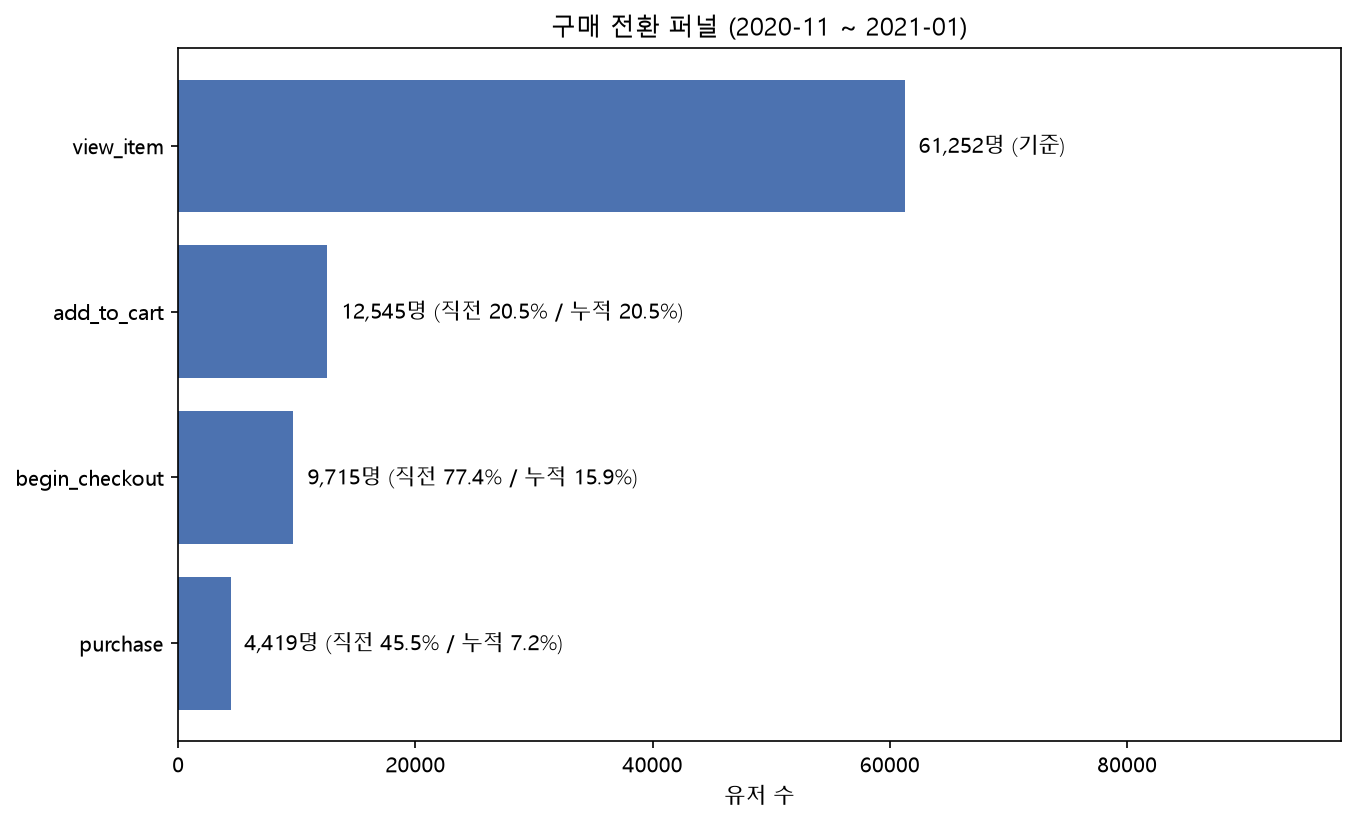
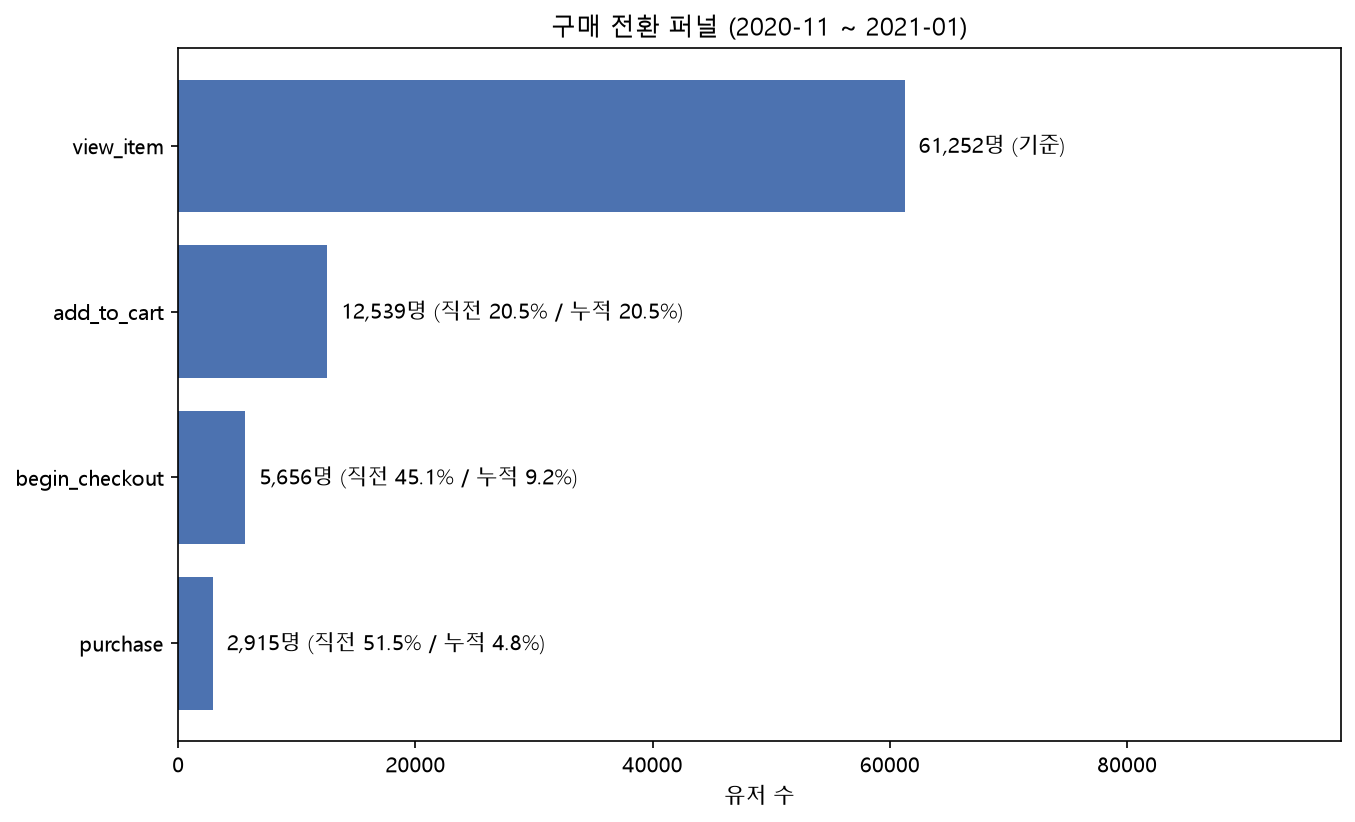
Refactor funnel analysis to intersection-based: correct 'checkout exit' narrative to 'cart→checkout' as primary leak

Changed region(s): [[0.155, 0.4866, 0.4649, 0.6691], [0.155, 0.6995, 0.403, 0.882], [0.279, 0.365, 0.31, 0.3954]]

diff --git a/src/dashboard.py b/src/dashboard.py
@@ -59,16 +59,17 @@ def render_executive_summary() -> None:
     col1, col2, col3, col4 = st.columns(4)
     col1.metric("총 방문자", "270,154")
     col2.metric("구매 유저", "4,419")
-    col3.metric("전체 구매 전환율", "1.64%")
+    col3.metric("전체 구매 전환율", "1.08%")
     col4.metric("매출 상위 20% 유저의 매출 비중", "56.7%")
 
     st.divider()
 
-    st.markdown("#### 가장 큰 매출 손실 지점은 체크아웃 이탈")
+    st.markdown("#### 가장 큰 매출 손실 지점은 장바구니 → 체크아웃 구간")
     st.markdown(
-        "상품을 장바구니에 담고 체크아웃까지 진행한 유저의 54.5%가 결제 없이 이탈합니다. "
-        "이는 업계 평균(30~40%) 대비 심각한 수준으로, 배송비 사전 노출·게스트 체크아웃 등 "
-        "결제 페이지 최적화의 임팩트가 가장 큽니다."
+        "상품을 조회하고 장바구니에 담은 유저 12,539명 중 54.9%가 체크아웃으로 넘어가지 "
+        "않습니다 (체크아웃 진입 5,656명). 체크아웃 이후 구매 완료율은 51.5%로 상대적으로 "
+        "양호해, 매출 개선 레버리지는 결제 페이지보다 **장바구니 이탈 방지(저장 알림, 재고 "
+        "긴급성 노출, 쿠폰 자동 적용 등)에 더 큽니다**."
     )
 
     st.markdown('#### 매출의 42%는 "1회 중가 구매자" 하나의 세그먼트에서 발생')
@@ -119,7 +120,7 @@ def render_funnel() -> None:
 
     st.dataframe(df, use_container_width=True)
 
-    st.info("체크아웃 → 구매 이탈률 54.5%가 가장 큰 매출 손실 지점")
+    st.info("장바구니 → 체크아웃 이탈률 54.9%가 가장 큰 매출 손실 지점 (교집합 기준 분석)")
 
 
 def render_cohort() -> None:
